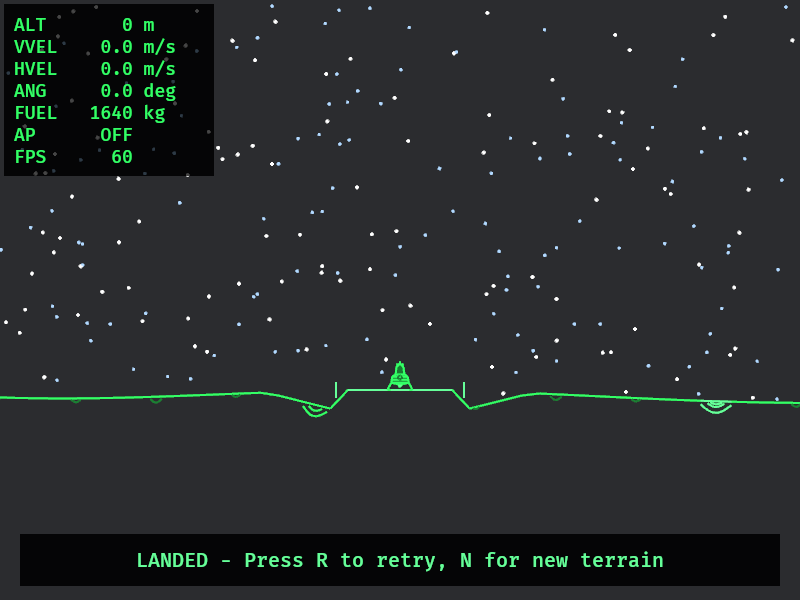
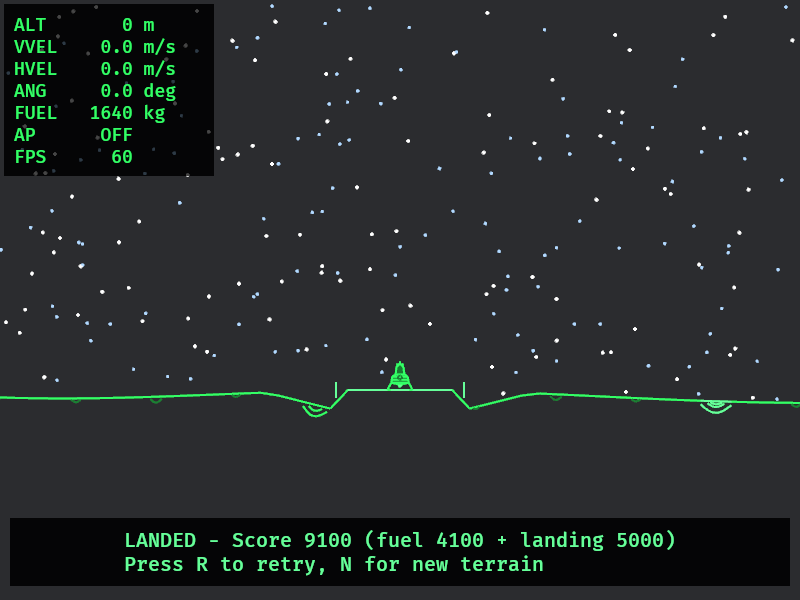
Add landing scores from remaining fuel and touchdown softness.
Show fuel and landing subscores on the landed banner, document the
scoring rules, and refresh screenshots.

Changed region(s): [[0.0, 0.84, 1.0, 0.99]]

diff --git a/src/game.rs b/src/game.rs
@@ -16,6 +16,10 @@ const ORBITAL_STEER_RATE: f32 = 1.2;
 const MAX_LANDING_VY: f32 = 3.0;
 const MAX_LANDING_VX: f32 = 2.0;
 const MAX_LANDING_ANGLE: f32 = 15.0_f32.to_radians();
+/// Perfect soft landing with full tanks.
+const MAX_LANDING_SCORE: f32 = 10_000.0;
+const FUEL_SCORE_WEIGHT: f32 = 0.5;
+const SOFT_SCORE_WEIGHT: f32 = 0.5;
 /// Avoid startup hitches (shader compile, window init) simulating many physics steps in one frame.
 const MAX_FRAME_DT: f32 = 0.05;
 const MAX_PHYSICS_STEPS_PER_FRAME: usize = 4;
@@ -27,12 +31,21 @@ pub enum GameStatus {
     Crashed,
 }
 
+#[derive(Clone, Copy, Default, Debug, PartialEq, Eq)]
+pub struct LandingScore {
+    pub total: u32,
+    pub fuel: u32,
+    pub soft: u32,
+}
+
 #[derive(Resource)]
 pub struct GameState {
     pub lander: Lander,
     pub world: World,
     pub status: GameStatus,
     pub fuel: f32,
+    /// Set on a successful landing; zero while flying or after a crash.
+    pub score: LandingScore,
     pub seed: u64,
     pub approach_altitude: f32,
     pub initial_orbital_speed: f32,
@@ -65,6 +78,7 @@ impl GameState {
             world,
             status: GameStatus::Flying,
             fuel: FUEL_CAPACITY,
+            score: LandingScore::default(),
             seed,
             approach_altitude,
             initial_orbital_speed: INITIAL_ORBITAL_SPEED,
@@ -117,6 +131,7 @@ impl GameState {
         game.lander.body.pos.y += penetration;
         game.lander.update_hull_world();
         game.fuel = 1_640.0;
+        game.score = compute_landing_score(game.fuel, 0.0, 0.0, 0.0);
         game
     }
 
@@ -234,6 +249,7 @@ fn physics_step(game: &mut GameState, input: &ThrustInput) {
         || flew_off_horizontal_view(game.lander.body.pos.x, cam.x)
     {
         game.status = GameStatus::Crashed;
+        game.score = LandingScore::default();
     }
 }
 
@@ -272,6 +288,7 @@ fn resolve_landing(game: &mut GameState) {
 
     if on_pad && vy <= MAX_LANDING_VY && vx <= MAX_LANDING_VX && angle <= MAX_LANDING_ANGLE {
         game.status = GameStatus::Landed;
+        game.score = compute_landing_score(game.fuel, vy, vx, angle);
         game.lander.body.vel = Vec2::ZERO;
         game.lander.body.angular_vel = 0.0;
         game.lander.set_throttles(0.0, 0.0, 0.0);
@@ -280,6 +297,70 @@ fn resolve_landing(game: &mut GameState) {
         game.lander.update_hull_world();
     } else {
         game.status = GameStatus::Crashed;
+        game.score = LandingScore::default();
         game.lander.set_throttles(0.0, 0.0, 0.0);
+    }
+}
+
+/// Landing softness in \[0, 1\]: 1 is a dead-stop, 0 is at the crash limits.
+fn landing_softness(vy: f32, vx: f32, angle: f32) -> f32 {
+    let soft_vy = 1.0 - (vy / MAX_LANDING_VY).clamp(0.0, 1.0);
+    let soft_vx = 1.0 - (vx / MAX_LANDING_VX).clamp(0.0, 1.0);
+    let soft_angle = 1.0 - (angle / MAX_LANDING_ANGLE).clamp(0.0, 1.0);
+    soft_vy * 0.55 + soft_vx * 0.25 + soft_angle * 0.20
+}
+
+/// Score from remaining fuel and how soft the touchdown was (max [`MAX_LANDING_SCORE`]).
+pub fn compute_landing_score(fuel: f32, vy: f32, vx: f32, angle: f32) -> LandingScore {
+    let fuel_frac = (fuel / FUEL_CAPACITY).clamp(0.0, 1.0);
+    let softness = landing_softness(vy, vx, angle);
+    // Square softness so near-limit landings earn little on the soft axis.
+    let soft_frac = softness * softness;
+    let fuel_score = (MAX_LANDING_SCORE * FUEL_SCORE_WEIGHT * fuel_frac).round() as u32;
+    let soft_score = (MAX_LANDING_SCORE * SOFT_SCORE_WEIGHT * soft_frac).round() as u32;
+    LandingScore {
+        total: fuel_score + soft_score,
+        fuel: fuel_score,
+        soft: soft_score,
+    }
+}
+
+#[cfg(test)]
+mod tests {
+    use super::*;
+
+    #[test]
+    fn perfect_landing_with_full_fuel_is_max_score() {
+        let score = compute_landing_score(FUEL_CAPACITY, 0.0, 0.0, 0.0);
+        assert_eq!(score.total, MAX_LANDING_SCORE as u32);
+        assert_eq!(score.fuel, (MAX_LANDING_SCORE * FUEL_SCORE_WEIGHT) as u32);
+        assert_eq!(score.soft, (MAX_LANDING_SCORE * SOFT_SCORE_WEIGHT) as u32);
+    }
+
+    #[test]
+    fn empty_tanks_still_score_from_softness() {
+        let score = compute_landing_score(0.0, 0.0, 0.0, 0.0);
+        assert_eq!(score.fuel, 0);
+        assert_eq!(score.soft, (MAX_LANDING_SCORE * SOFT_SCORE_WEIGHT) as u32);
+        assert_eq!(score.total, score.fuel + score.soft);
+    }
+
+    #[test]
+    fn hard_landing_scores_less_than_soft() {
+        let soft = compute_landing_score(1_000.0, 0.2, 0.1, 0.0);
+        let hard = compute_landing_score(1_000.0, MAX_LANDING_VY, MAX_LANDING_VX, MAX_LANDING_ANGLE);
+        assert!(soft.total > hard.total);
+        assert_eq!(soft.fuel, hard.fuel);
+        assert!(soft.soft > hard.soft);
+        assert!(hard.total > 0);
+    }
+
+    #[test]
+    fn more_fuel_scores_higher() {
+        let low = compute_landing_score(200.0, 0.5, 0.2, 0.05);
+        let high = compute_landing_score(1_800.0, 0.5, 0.2, 0.05);
+        assert!(high.total > low.total);
+        assert!(high.fuel > low.fuel);
+        assert_eq!(high.soft, low.soft);
     }
 }

diff --git a/src/render.rs b/src/render.rs
@@ -37,8 +37,8 @@ const HUD_BG_PAD: f32 = 10.0;
 const HUD_FONT_SIZE: f32 = 18.0;
 const HUD_LINE_STEP: f32 = 22.0;
 const STATUS_FONT_SIZE: f32 = 20.0;
-const STATUS_BG_WIDTH: f32 = 760.0;
-const STATUS_BG_HEIGHT: f32 = 52.0;
+const STATUS_BG_WIDTH: f32 = 780.0;
+const STATUS_BG_HEIGHT: f32 = 68.0;
 const STATUS_BOTTOM_MARGIN: f32 = 14.0;
 const WASM_HASH_FONT_SIZE: f32 = 14.0;
 const WASM_HASH_MARGIN: f32 = 10.0;
@@ -926,7 +926,11 @@ pub fn update_hud(
                 *vis = Visibility::Hidden;
             }
             GameStatus::Landed => {
-                **text = "LANDED - Press R to retry, N for new terrain".into();
+                **text = format!(
+                    "LANDED - Score {} (fuel {} + landing {})\nPress R to retry, N for new terrain",
+                    game.score.total, game.score.fuel, game.score.soft
+                )
+                .into();
                 *vis = Visibility::Visible;
             }
             GameStatus::Crashed => {

diff --git a/README.md b/README.md
@@ -12,6 +12,7 @@ A physics-based 2D lunar lander built in Rust with [Bevy](https://bevyengine.org
 - **Apollo-style approach** — spawn 480 m downrange at ~18 m/s horizontal velocity toward the pad
 - **Autopilot** — press `P` for guided landing with attitude damping and glide-slope guidance
 - **Retro HUD** — altitude above local terrain, velocities, angle, fuel, autopilot status
+- **Landing score** — up to 10,000 points from remaining fuel and how soft the touchdown was
 
 ## Screenshots
 
@@ -73,6 +74,11 @@ A safe landing requires:
 - Vertical speed ≤ 3 m/s
 - Horizontal speed ≤ 2 m/s
 - Tilt ≤ 15°
+
+A successful landing scores up to **10,000** points:
+
+- **Fuel** (up to 5,000) — remaining propellant as a fraction of capacity
+- **Landing** (up to 5,000) — how gentle the touchdown was versus the crash limits (vertical speed weighted most, then horizontal, then tilt)
 
 ## Development
 